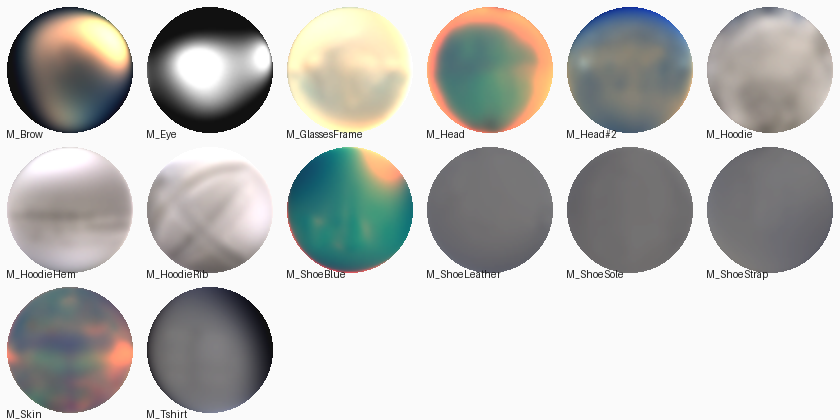
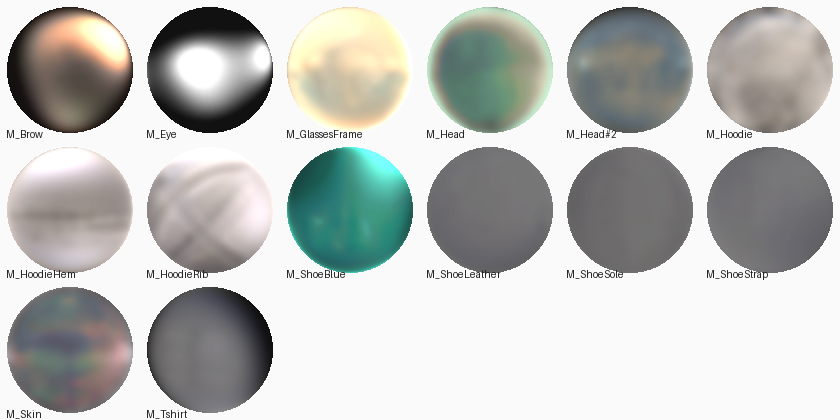
Viewer: eyes no longer roll away; matcap colour kept to the measured correction
- The follow-the-camera turn of the eyes piled up frame after frame: three.js
  only writes a bone when its animated value changes, so with a still pose
  the turned eye was taken as the next frame's base (eyes rolled until only
  the white showed, grey ring in 3/4). The eyes go back to the animated pose
  after every frame, and the turn is capped at 28 degrees.
- Reference look: the colour correction of each material is measured where
  the photos give many samples; toward grazing normals only the brightness
  varies, and nowhere more than 0.3 (log2) from it (a pink line showed at the
  edge of the celeste face).
- Test hooks to hold an animation at a time and orbit the camera;
  scripts/pose-shots.mjs takes viewer screenshots of poses.

Claude-Session: https://claude.ai/code/session_01Cwu8931f4rGuiLBWDxSHcw

diff --git a/web/src/main.ts b/web/src/main.ts
@@ -148,6 +148,7 @@ const groupState: Record<string, boolean> = {};
 // ------------------------------------------------------------------ eyes follow the camera
 let eyesFollow = true;
 let eyeBones: THREE.Object3D[] = [];
+const EYE_MAX = (28 * Math.PI) / 180;
 let eyeBase: THREE.Quaternion[] = [];
 let headBone: THREE.Object3D | null = null;
 const headRestInv = new THREE.Quaternion();
@@ -169,6 +170,11 @@ function updateShot(dt: number) {
   return true;
 }
 function captureEyeBase() { eyeBase = eyeBones.map((b) => b.quaternion.clone()); }
+// put the eyes back to the animated pose once a frame is drawn: three.js only
+// writes a bone when its animated value changes, so with a still pose the
+// follow-the-camera turn would otherwise be taken as the next frame's base and
+// pile up (the eyes rolled until only the white showed)
+function unaimEyes() { eyeBones.forEach((b, i) => { if (eyeBase[i]) b.quaternion.copy(eyeBase[i]); }); }
 function aimEyes() {
   if (eyeBones.length < 2 || !headBone) return;
   eyeBones.forEach((b, i) => b.quaternion.copy(eyeBase[i]));
@@ -182,7 +188,9 @@ function aimEyes() {
   const toCam = _v.copy(camera.position).sub(_mid).normalize();
   const ang = _fwd.angleTo(toCam);
   const k = ang < 0.7 ? 1 : ang < 1.571 ? 1 - (0.65 * (ang - 0.7)) / 0.871 : Math.max(0, 0.35 * (1 - (ang - 1.571) / 0.5));
-  const kk = k * (1 - shotW); // the shot key already turns the eyes as in the photo
+  // the shot key already turns the eyes as in the photo; never more than
+  // EYE_MAX, so the iris stays inside its socket
+  const kk = Math.min(k * (1 - shotW), EYE_MAX / Math.max(ang, 1e-6));
   if (kk <= 0) return;
   _qk.identity().slerp(_q2.setFromUnitVectors(_fwd, toCam), kk);
   for (const b of eyeBones) {
@@ -505,6 +513,7 @@ document.getElementById('shot')!.addEventListener('click', () => {
   camera.fov = lensFov;
   camera.updateProjectionMatrix();
   renderer.render(scene, camera);
+  unaimEyes();
   const url = renderer.domElement.toDataURL('image/png');
   renderer.setPixelRatio(pr);
   renderer.setSize(size.x, size.y, false);
@@ -587,8 +596,24 @@ renderer.setAnimationLoop(() => {
       contact.update(renderer, scene, _centre);
     }
     renderer.render(scene, camera);
+    unaimEyes();
     if (dirtyFrames > 0) dirtyFrames--;
   }
 });
 (window as unknown as { __morfiInvalidate: () => void }).__morfiInvalidate = () => invalidate(4);
 (window as unknown as { __morfiSetView: (v: string) => void }).__morfiSetView = (v: string) => setView(v, false);
+// tests: hold an animation at a given time (seconds) and orbit the camera
+(window as unknown as { __morfiPose: (clip: string, t: number) => void }).__morfiPose = (clip: string, t: number) => {
+  playClip(clip, false);
+  if (action && mixer) { action.paused = true; action.time = t; mixer.update(0); captureEyeBase(); }
+  invalidate(6);
+};
+(window as unknown as { __morfiOrbit: (az: number, el: number, dist: number) => void }).__morfiOrbit = (az: number, el: number, dist: number) => {
+  aligned = false;
+  const a = (az * Math.PI) / 180, e = (el * Math.PI) / 180;
+  camera.position.set(controls.target.x + dist * Math.cos(e) * Math.sin(a), controls.target.y + dist * Math.sin(e), controls.target.z + dist * Math.cos(e) * Math.cos(a));
+  camera.lookAt(controls.target);
+  controls.update();
+  invalidate(6);
+};
+(window as unknown as { __morfiEyes: () => number[][] }).__morfiEyes = () => eyeBones.map((b) => b.quaternion.toArray().map((x) => +x.toFixed(4)));

diff --git a/scripts/build_look.py b/scripts/build_look.py
@@ -24,6 +24,7 @@ COLS = 6
 # its iris always faces the camera: its measured ratio is blotchy and coloured
 # (rainbow fringes on the sclera). It keeps only the smooth part, in grey.
 SMOOTH_GREY = {'M_Eye'}
+CHROMA = 0.3  # largest colour shift (log2) from a material's measured colour correction
 
 
 def fill(G, w):
@@ -77,6 +78,26 @@ def smooth_fit(G, n, N, residual=True):
     return F + conf * num / np.maximum(den, 1e-6)
 
 
+def rim_grey(F, n, N):
+    """Keep the colour correction measured where the photos give many samples
+    and let only the brightness vary toward the rim: at grazing normals the
+    few samples sit on anti-aliased edges against the background and the fit
+    turned orange there, which showed as a pink line round the blue head."""
+    yy, xx = np.mgrid[0:N, 0:N]
+    r = np.minimum(np.hypot((xx + 0.5) / N - 0.5, (yy + 0.5) / N - 0.5) / 0.495, 1.0)
+    nz = np.sqrt(1.0 - r ** 2)
+    L = F.mean(-1, keepdims=True)
+    C = F - L
+    w = (n * (nz > 0.5)).astype(float)
+    C0 = (C * w[..., None]).sum((0, 1)) / max(w.sum(), 1e-9)
+    t = np.clip((nz - 0.25) / (0.6 - 0.25), 0.0, 1.0)[..., None]
+    t = t * t * (3 - 2 * t)
+    # and nowhere more than CHROMA away from it: on the blue head the measured
+    # highlight is much redder than blue (it lightens a dark blue), and on the
+    # celeste texels at the edge of the face that tint turned pink
+    return np.clip(L + C0 + np.clip(C - C0, -CHROMA, CHROMA) * t, LO, HI)
+
+
 def main():
     raw = json.load(open(os.path.join(ROOT, 'work', 'look', 'raw.json')))
     N = raw['size']
@@ -94,6 +115,7 @@ def main():
             F = np.clip(np.repeat(F.mean(-1, keepdims=True), 3, -1), LO, HI)
         else:
             F = np.clip(smooth_fit(G, n, N), LO, HI)
+            F = rim_grey(F, n, N)
         enc = np.clip((F - LO) / (HI - LO), 0, 1)
         tiles.append((name, (enc[::-1] * 255 + 0.5).astype(np.uint8)))  # image rows top-down
         info[name] = {'tile': len(tiles) - 1, 'samples': int(n.sum())}
